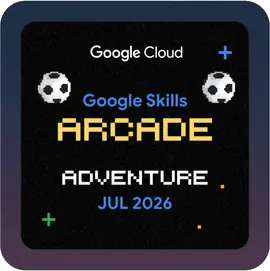
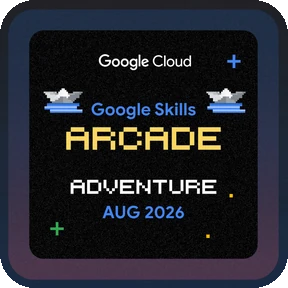
feat(catalog): sinkron katalog ke Arcade Agustus 2026
- 6 game Agustus: game id + access code baru (Base Camp, Adventure/Data Vault,
  Voyage/Google Sheets, Trail/Cloud Delivery Systems, Special/Spans and Plans,
  Simulator/Network Security Engineer).
- Arcade Trail dibuka lagi, flag `off` + banner "ditarik sementara" dihapus.
- Art badge Agustus dari kartu resmi (crop 288px, rounded); art Juli
  diarsipkan ke public/img/past. Cache-buster gambar game ?v=3 -> ?v=4.
- 6 game Juli masuk PAST_GAMES (48 -> 54), termasuk Trail Juli yang kini
  resmi "Game over".
- Badge unggulan baru 747 Monitoring in Google Cloud (84 -> 85 badge skill).
- Test badgeUrl tidak lagi meng-hardcode game id yang berganti tiap bulan,
  plus test baru: regex game tidak boleh menyambar nama skill badge
  (/network security/i polos akan menyambar badge 1412).

Diverifikasi dengan `npm run check:arcade`: tidak ada perbedaan dengan sumber resmi.

diff --git a/src/catalog.js b/src/catalog.js
@@ -94,6 +94,7 @@ export const SKILL_CATALOG = [
   { id: 759, name: 'Mitigate Threats and Vulnerabilities with Security Command Center' },
   { id: 1445, name: 'Deploy Multi-Agent Architectures' },
   { id: 1682, name: 'Orchestrate Multi-agent Workflows with Gemini Enterprise' },
+  { id: 747, name: 'Monitoring in Google Cloud' }, // badge unggulan Agustus 2026
 ]
 
 // Empat badge GEAR yang wajib selesai untuk klaim Bonus Milestone (+10 poin).
@@ -105,19 +106,18 @@ export const GEAR_BADGES = [1586, 1596, 1445, 1682]
 export { PAST_GAMES, gamePoints, pastGameImg } from '../lib/pastGames.js'
 
 // Access code + game id (skills.google/games/{game}) berubah TIAP BULAN. Sumber: go.cloudskillsboost.google/arcade. Update bulanan.
+// Agustus 2026 (dicek 3 Agu 2026). Trail sudah dibuka lagi, jadi tidak ada lagi entri `off`.
 export const GAME_CATALOG = [
-  { name: 'Arcade Base Camp', short: 'Base Camp', game: 7313, code: '1q-basecamp-07511', img: '/img/game-basecamp.webp', re: /base ?camp/i },
-  { name: 'Arcade Adventure', short: 'Adventure', sub: 'Low-Code Development', game: 7314, code: '1q-lowcode-92316', img: '/img/game-adventure.webp', re: /adventure/i },
-  { name: 'Arcade Voyage', short: 'Voyage', sub: 'Cloud Storage and Data Governance', game: 7315, code: '1q-bucket-58231', img: '/img/game-voyage.webp', re: /voyage/i },
-  // Trail Juli 2026 ditarik sementara: kartunya hilang dari halaman resmi, tapi POIN-NYA TETAP
-  // DIHITUNG. Banner resmi: "a makeup opportunity will be made soon so you can collect the Arcade
-  // Point you missed", dan bagian POINTS SYSTEM masih memuat "Arcade Trail x1 game badge = 1 point".
-  // Jadi `off` HANYA berarti "belum bisa dikerjakan sekarang": entri ini tetap ikut penyebut target
-  // (6 game), cuma kartunya tidak bisa diklik. JANGAN keluarkan dari hitungan.
-  // Access code lama sengaja dibuang supaya tidak ada yang mencoba menukarkannya.
-  { name: 'Arcade Trail', short: 'Trail', sub: 'Google Workspace Administration', game: 7316, code: null, img: '/img/game-trail.webp', re: /trail/i, off: 'Ditarik sementara, poin tetap dihitung lewat sesi susulan' },
-  { name: 'Arcade Special', short: 'Special', sub: 'Safe Spaces', game: 7318, code: '1q-security-19110', img: '/img/game-special.webp', re: /special|safe space/i },
-  { name: 'Arcade Simulator', short: 'Simulator', sub: 'Data Mesh Architect', game: 7317, code: '1q-datamesh-16451', img: '/img/game-new.webp', re: /simulator|new game|data mesh/i },
+  { name: 'Arcade Base Camp', short: 'Base Camp', game: 7394, code: '1q-basecamp-10219', img: '/img/game-basecamp.webp', re: /base ?camp/i },
+  { name: 'Arcade Adventure', short: 'Adventure', sub: 'Data Vault', game: 7395, code: '1q-datamgt-92372', img: '/img/game-adventure.webp', re: /adventure/i },
+  { name: 'Arcade Voyage', short: 'Voyage', sub: 'Google Sheets', game: 7398, code: '1q-sheets-29185', img: '/img/game-voyage.webp', re: /voyage/i },
+  { name: 'Arcade Trail', short: 'Trail', sub: 'Cloud Delivery Systems', game: 7396, code: '1q-delivery-31058', img: '/img/game-trail.webp', re: /trail/i },
+  // Judul resmi game spesial bulan ini cuma "Spans and Plans" (tanpa awalan Arcade), jadi `re`
+  // harus memuat frasa itu supaya badge di profil peserta tetap terdeteksi.
+  { name: 'Arcade Special', short: 'Special', sub: 'Spans and Plans', game: 7399, code: '1q-schema-27083', img: '/img/game-special.webp', re: /spans ?and ?plans/i },
+  // Sengaja TIDAK memakai /network security/i saja: skill badge 1412 "Designing Network Security
+  // in Google Cloud" akan ikut kena dan salah di-link ke halaman game.
+  { name: 'Arcade Simulator', short: 'Simulator', sub: 'Network Security Engineer', game: 7397, code: '1q-network-51470', img: '/img/game-new.webp', re: /arcade simulator|network security engineer/i },
 ]
 
 // Skill badge yang punya gambar asli di /public/img/skills/{id}.webp (dari screenshot resmi Google Skills).

diff --git a/src/pages/Catalog.jsx b/src/pages/Catalog.jsx
@@ -223,9 +223,9 @@ function BadgeRow({ it }) {
   )
 }
 
-const PG_MONTHS = ['', 'Januari', 'Februari', 'Maret', 'April', 'Mei', 'Juni']
+const PG_MONTHS = ['', 'Januari', 'Februari', 'Maret', 'April', 'Mei', 'Juni', 'Juli']
 
-// Arsip game Jan-Jun 2026. Tidak bisa dikerjakan lagi (halaman game-nya ditutup), tapi poinnya
+// Arsip game Jan-Jul 2026. Tidak bisa dikerjakan lagi (halaman game-nya ditutup), tapi poinnya
 // TETAP masuk total Season, jadi ini penjelasan dari mana poin peserta lama datang.
 function PastGames({ gameBadges }) {
   const [open, setOpen] = useState(false)
@@ -250,7 +250,7 @@ function PastGames({ gameBadges }) {
         </button>
       </div>
       <div className="card-note" style={{ marginTop: 0, marginBottom: open ? 14 : 0 }}>
-        Game Arcade Januari–Juni 2026 yang sudah ditutup. Tidak bisa dikerjakan lagi, tapi kalau kamu
+        Game Arcade Januari–Juli 2026 yang sudah ditutup. Tidak bisa dikerjakan lagi, tapi kalau kamu
         sempat main, poinnya tetap dihitung di total Season 2026
         {mine.length > 0 && <> — punyamu <b>{mine.length} game = {minePts} poin</b></>}.
       </div>
@@ -296,7 +296,7 @@ export default function Catalog() {
       type: 'game',
       name: g.name,
       title: g.sub ? `${g.name}: ${g.sub}` : g.name,
-      img: g.img + '?v=3',
+      img: g.img + '?v=4',
       code: g.code || null,
       // Game yang ditarik Google tidak dilink: halamannya tidak bisa dimasuki lagi.
       url: g.off || !g.game ? null : gameUrl(g.game),

diff --git a/lib/pastGames.js b/lib/pastGames.js
@@ -1,5 +1,5 @@
-// Game Arcade 2026 yang sudah ditutup ("Game over!"), Januari–Juni 2026.
-// Sumber: section "Game over!" di go.cloudskillsboost.google/arcade, arsip HTML lokal 1 Agu 2026.
+// Game Arcade 2026 yang sudah ditutup ("Game over!"), Januari–Juli 2026.
+// Sumber: section "Game over!" di go.cloudskillsboost.google/arcade (dicek ulang 3 Agu 2026).
 // Dipakai untuk dua hal:
 //   1. Referensi di katalog (game lama tidak bisa dikerjakan lagi, tapi poinnya tetap terhitung
 //      di total Season 2026, jadi peserta perlu tahu asal poinnya).
@@ -63,6 +63,14 @@ export const PAST_GAMES = [
   { m: 6, name: 'Arcade Adventure: June 2026', pts: 1 },
   { m: 6, name: 'Arcade Voyage: June 2026', pts: 1 },
   { m: 6, name: 'Arcade Trail: June 2026', pts: 1 },
+  // Juli. Masuk daftar "Game over!" per 3 Agu 2026, termasuk Trail Juli yang sempat ditarik
+  // (sekarang resmi ditutup, poinnya tetap 1 untuk yang sudah sempat menyelesaikannya).
+  { m: 7, name: 'Arcade Safe Spaces', pts: 1 },
+  { m: 7, name: 'Arcade Simulator: Data Mesh Architect', pts: 1 },
+  { m: 7, name: 'Arcade Base Camp July', pts: 1 },
+  { m: 7, name: 'Arcade Adventure: July 2026', pts: 1 },
+  { m: 7, name: 'Arcade Voyage: July 2026', pts: 1 },
+  { m: 7, name: 'Arcade Trail: July 2026', pts: 1 },
 ]
 
 // Judul badge di profil bisa beda spasi/tanda baca dengan halaman resmi (mis. "Work- Life"),

diff --git a/src/Insights.jsx b/src/Insights.jsx
@@ -98,7 +98,7 @@ export function MonthlyGames({ badges }) {
           const ok = done(g.re)
           return (
             <div key={g.name} className={'gamecard' + (ok ? ' done' : '')}>
-              <img src={g.img + '?v=3'} alt={g.name} loading="lazy" />
+              <img src={g.img + '?v=4'} alt={g.name} loading="lazy" />
               <div className="gc-name">{g.name}</div>
               {g.sub && <div className="gc-sub">{g.sub}</div>}
               <div className={'gc-status' + (ok ? ' ok' : '')}>{ok ? '✓ Selesai' : g.off ? 'Ditunda' : 'Belum'}</div>
